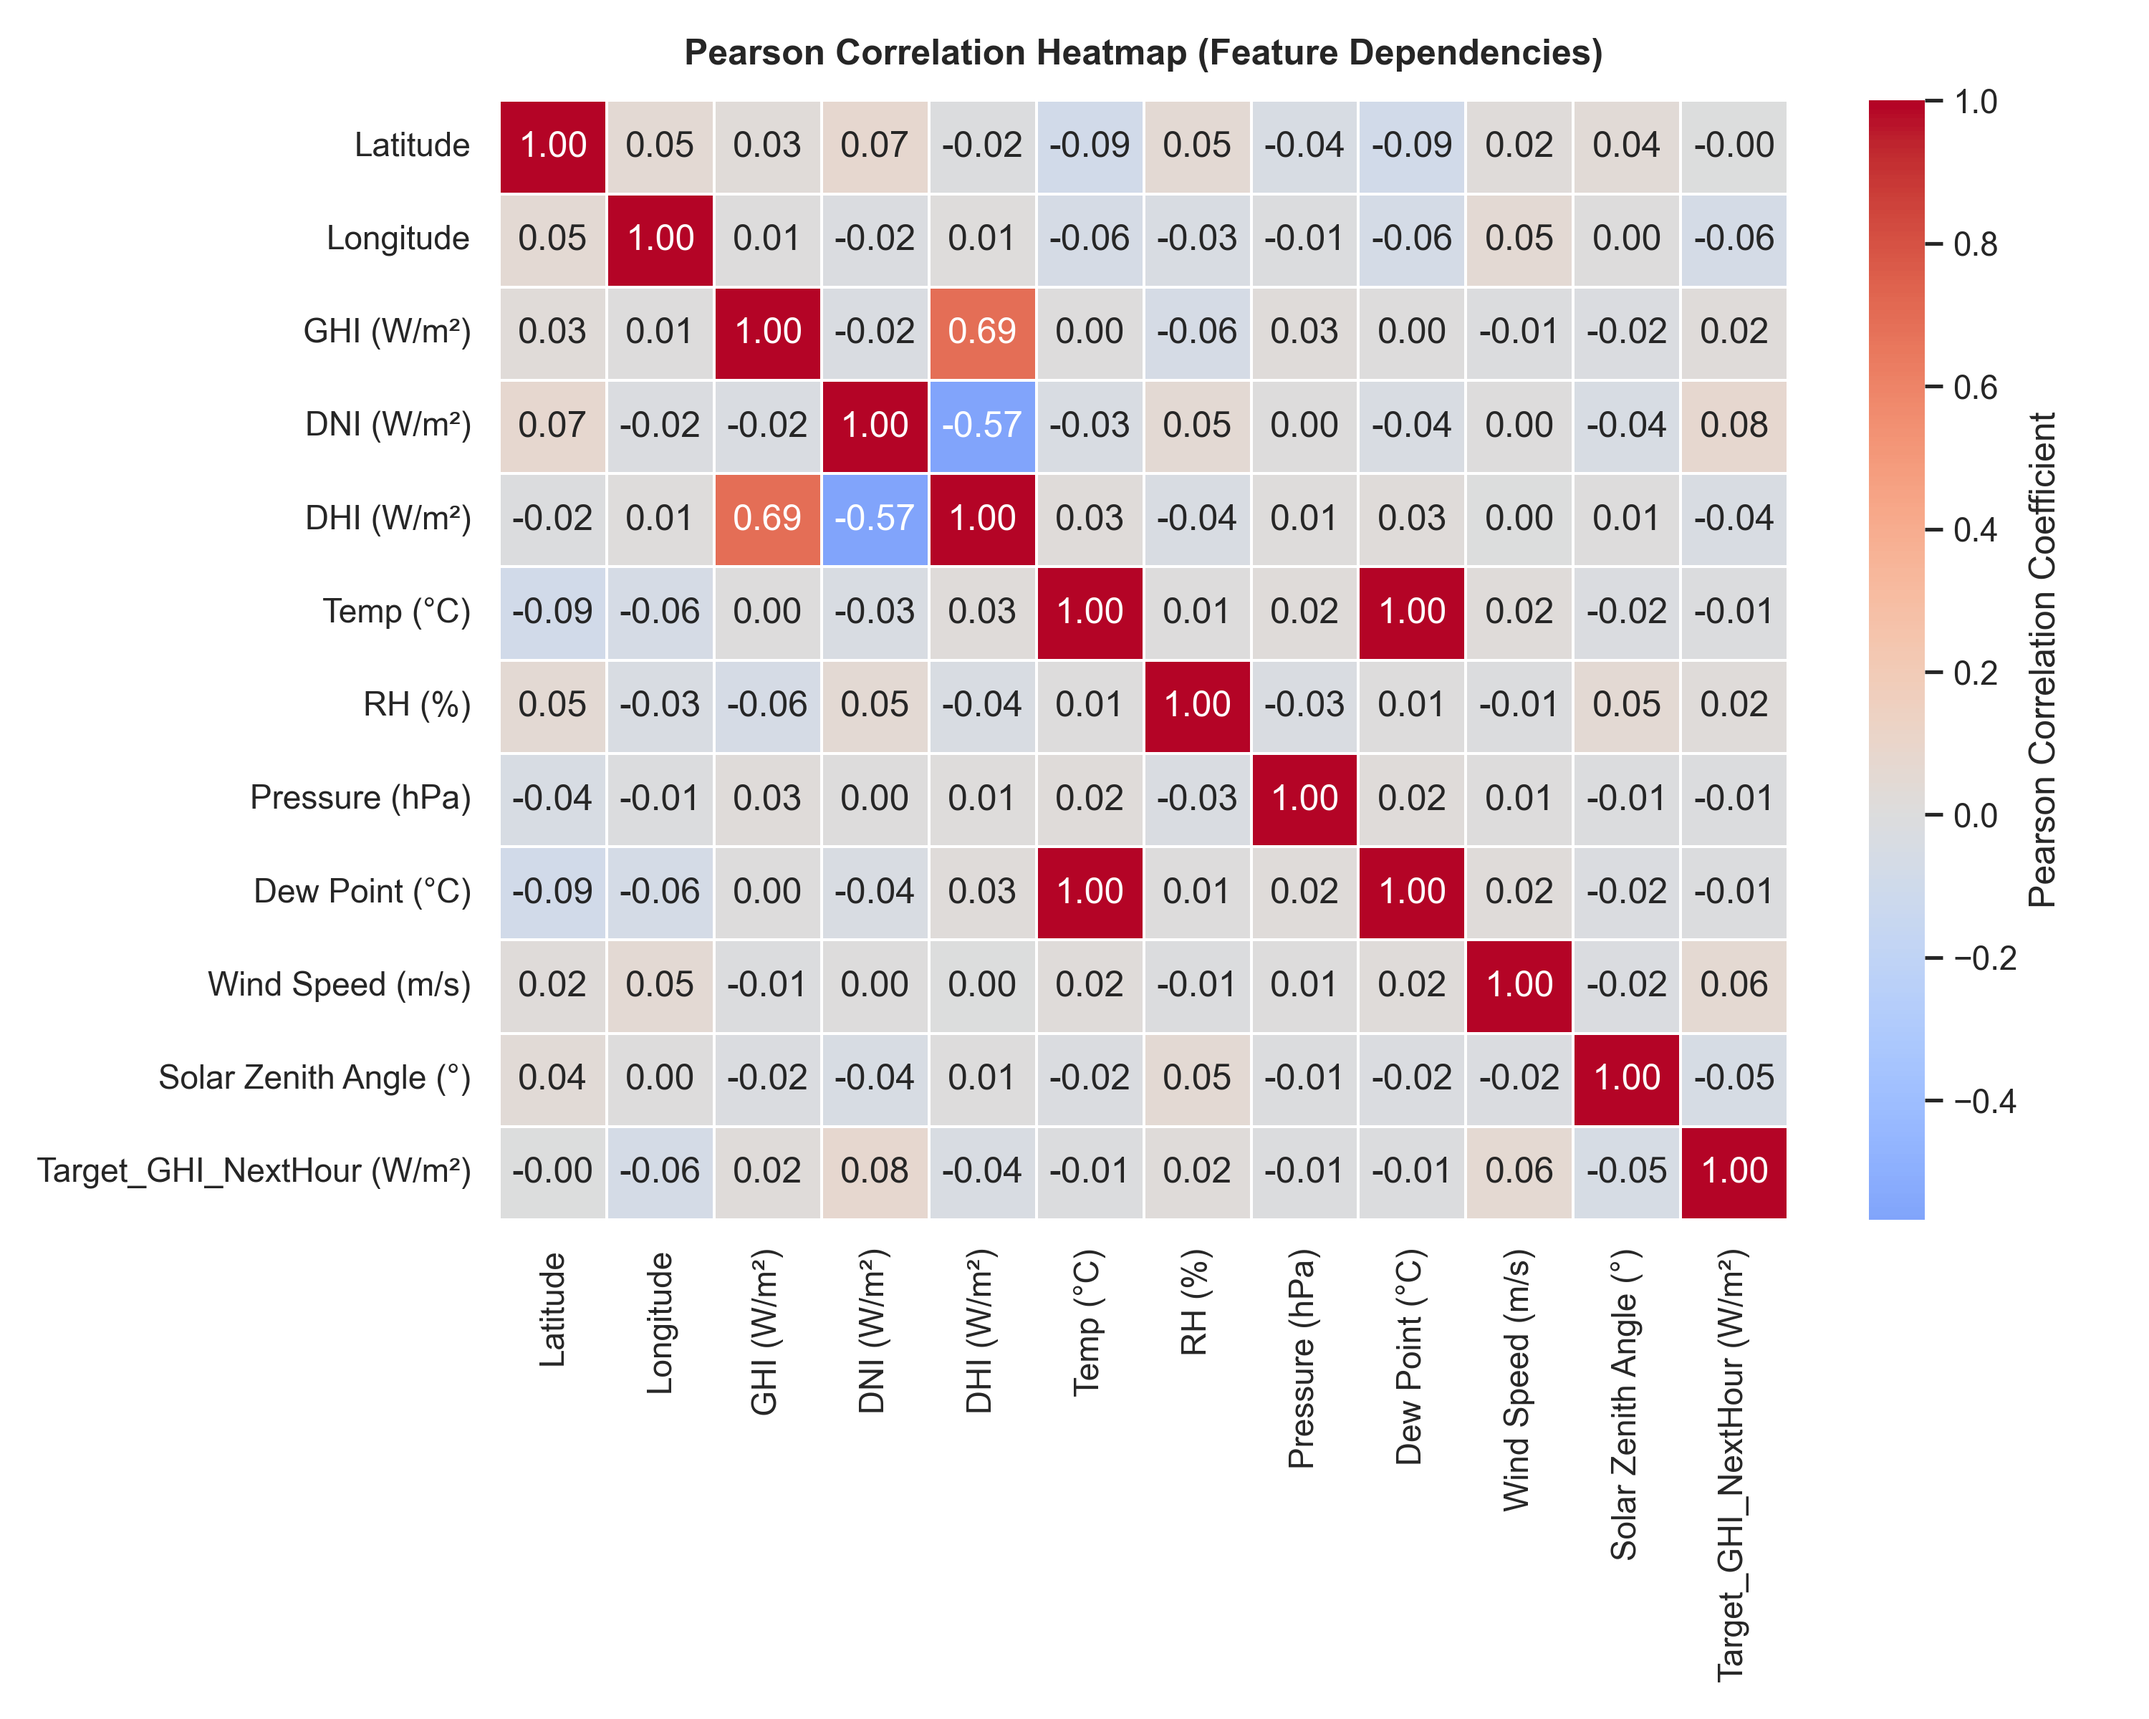
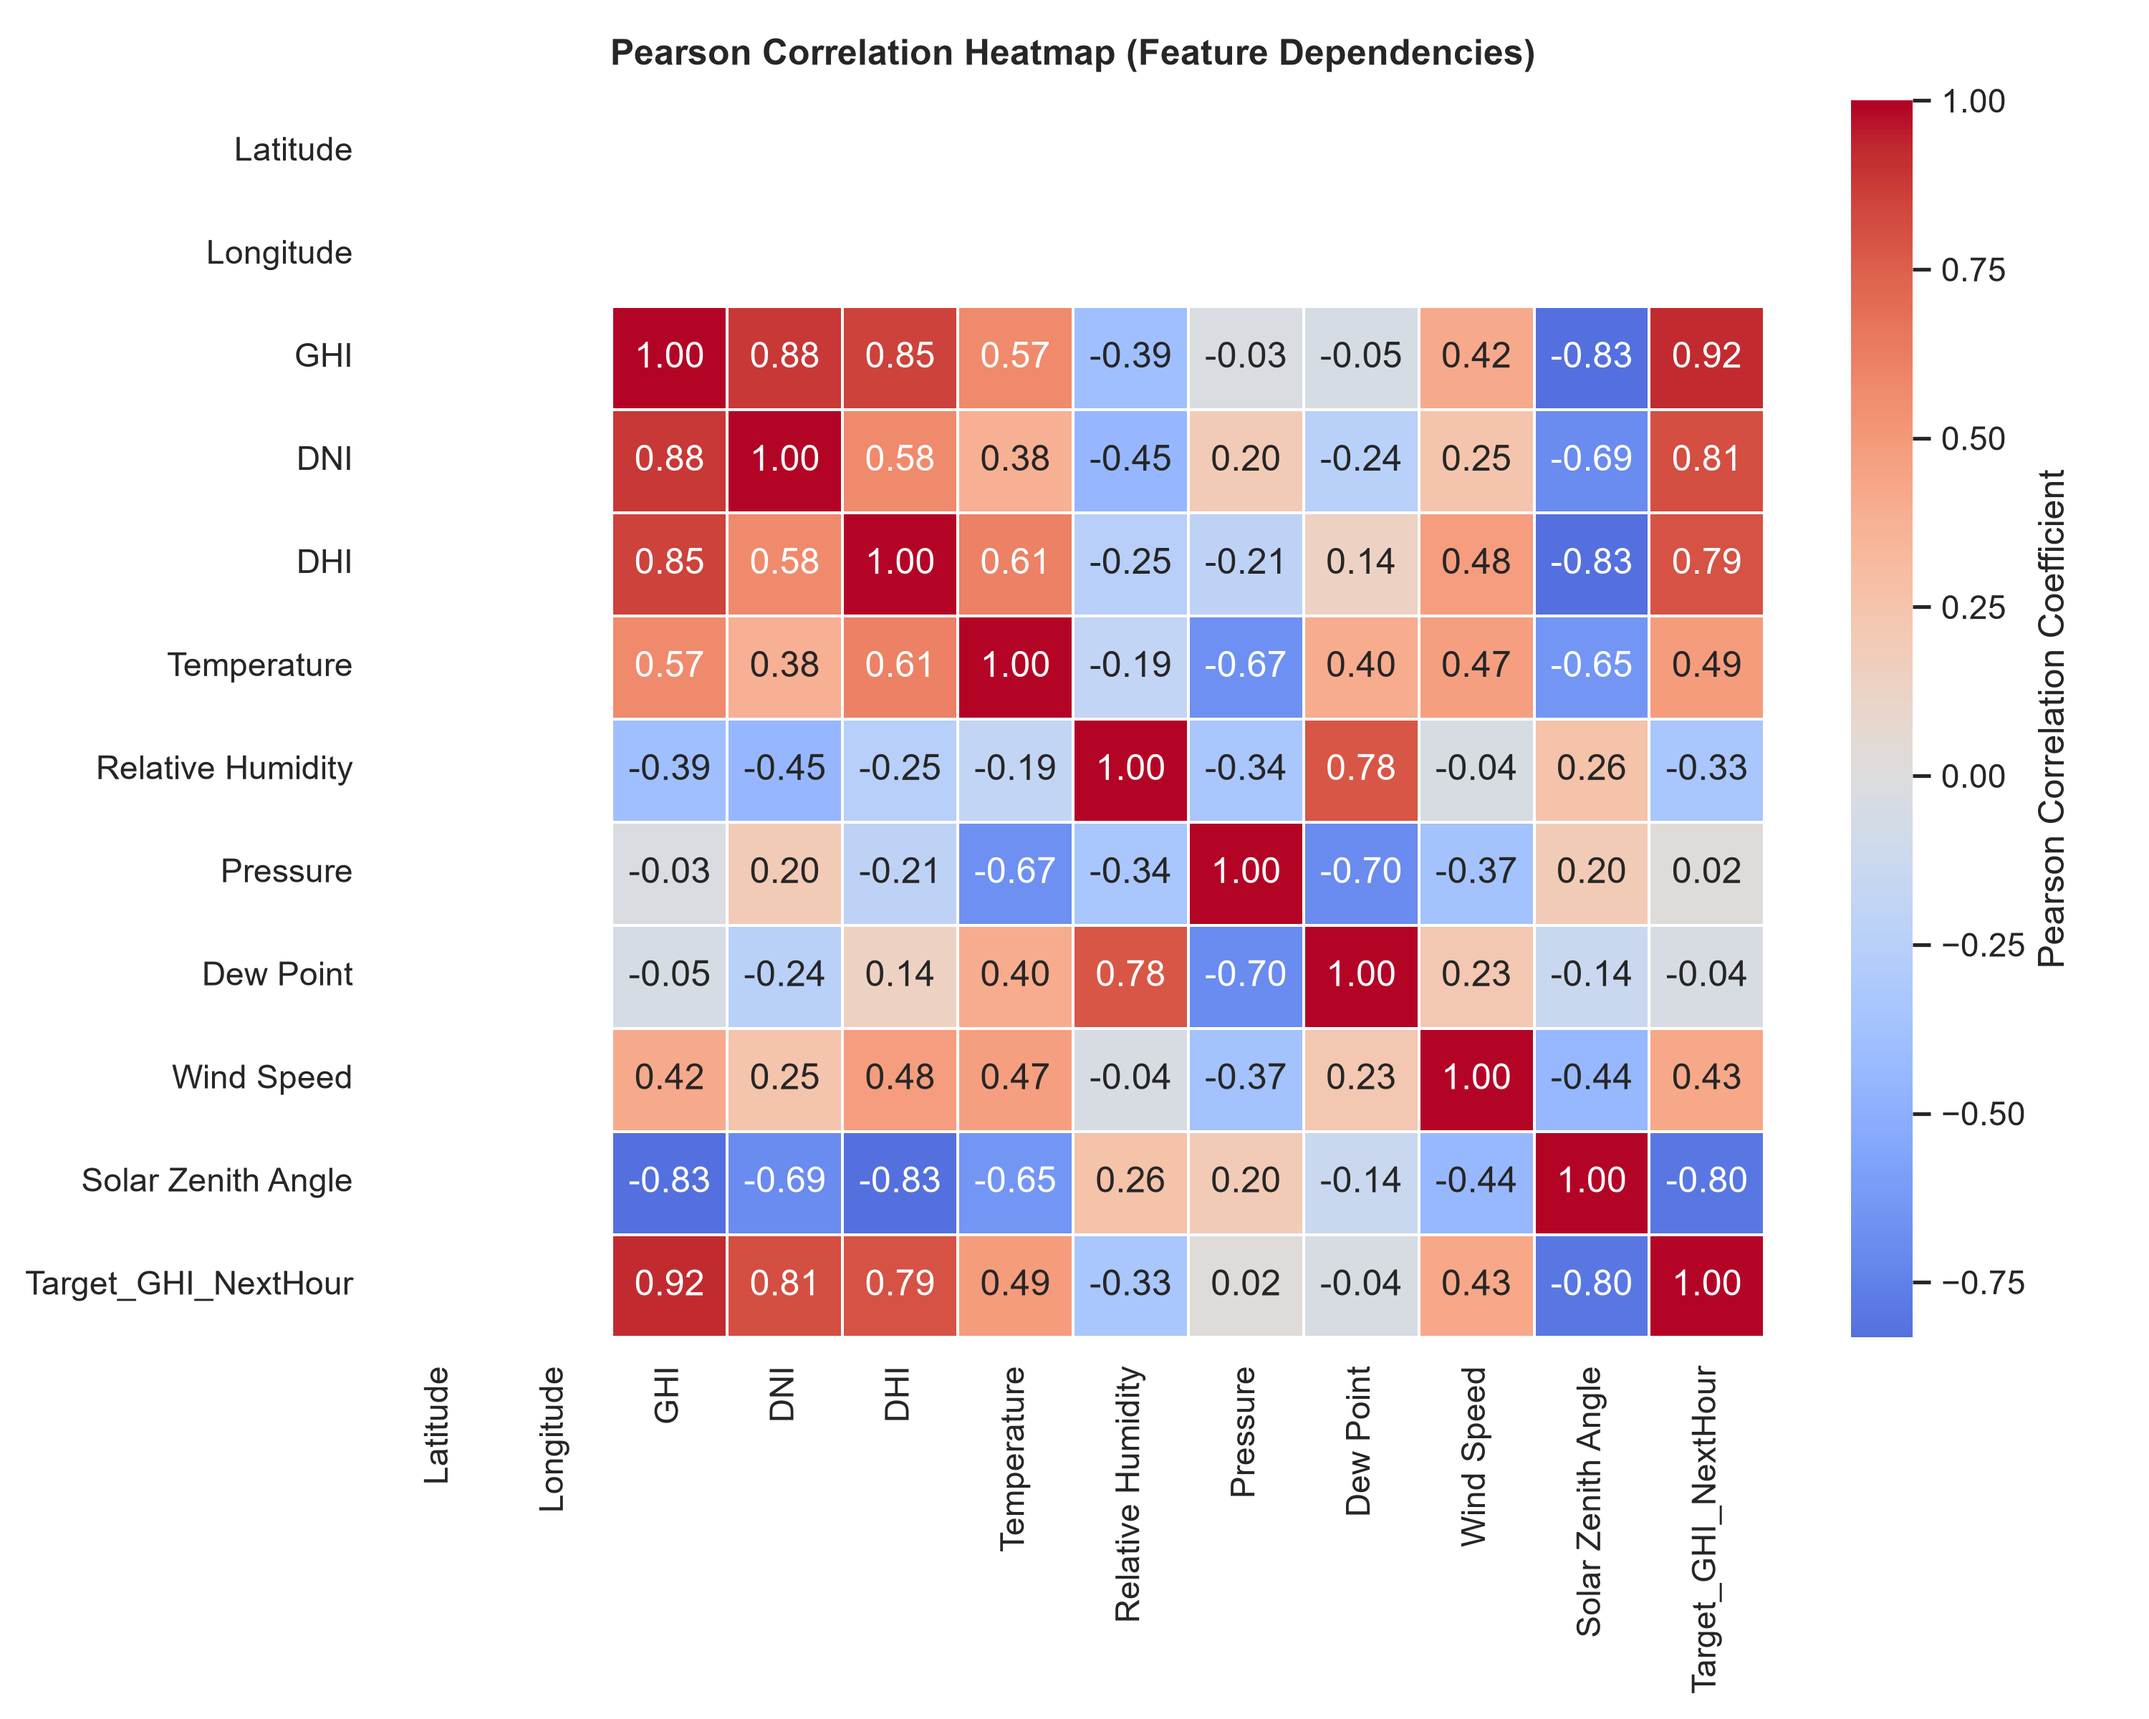
Member 2: Add generated weekly progress report PDF and update visualization scripts

diff --git a/01_eda_and_trends.py b/01_eda_and_trends.py
@@ -3,7 +3,7 @@ import matplotlib.pyplot as plt
 import pandas as pd
 import seaborn as sns
 
-# 1. Define paths relative to your project
+# 1. Define paths relative to project root
 BASE_DIR = os.path.dirname(os.path.abspath(__file__))
 DATA_PATH = os.path.join(
     BASE_DIR, "data", "processed", "nsrdb_cleaned_base.csv"
@@ -12,51 +12,91 @@ REPORTS_DIR = os.path.join(BASE_DIR, "reports")
 
 os.makedirs(REPORTS_DIR, exist_ok=True)
 
-# 2. Load the preprocessed dataset
+# 2. Load preprocessed dataset
 print("Loading cleaned dataset from:", DATA_PATH)
 df = pd.read_csv(DATA_PATH)
-df["Timestamp"] = pd.to_datetime(df["Timestamp"])
-df["Hour"] = df["Timestamp"].dt.hour
+
+# Convert Timestamp and extract Hour
+if "Timestamp" in df.columns:
+    df["Timestamp"] = pd.to_datetime(df["Timestamp"])
+    df["Hour"] = df["Timestamp"].dt.hour
+
+# Helper function to detect matching column names flexibly
+def get_col(possible_names, df_cols):
+    for name in possible_names:
+        if name in df_cols:
+            return name
+    return None
+
+ghi_col = get_col(["GHI (W/m²)", "GHI", "Target_GHI_NextHour (W/m²)", "Target_GHI"], df.columns)
+temp_col = get_col(["Temp (°C)", "Temperature", "Temp"], df.columns)
+rh_col = get_col(["RH (%)", "Relative Humidity", "RH"], df.columns)
+cloud_col = get_col(["Cloud Type", "Cloud_Type", "Cloud Coverage"], df.columns)
+zenith_col = get_col(["Solar Zenith Angle (°)", "Solar Zenith Angle", "Zenith"], df.columns)
+
+print(f"\n[+] Detected Active Columns:")
+print(f"    - GHI Column   : {ghi_col}")
+print(f"    - Temp Column  : {temp_col}")
+print(f"    - RH Column    : {rh_col}")
+print(f"    - Cloud Column : {cloud_col}")
 
 # 3. Create Multi-Panel Visualization
 sns.set_theme(style="whitegrid")  
 plt.figure(figsize=(14, 10))
 
 # Subplot 1: Hourly Solar Irradiance (Diurnal Pattern)
-plt.subplot(2, 2, 1)
-sns.boxplot(data=df, x="Hour", y="GHI (W/m²)", palette="YlOrRd")
-plt.title("Diurnal GHI Distribution by Hour")
-plt.xlabel("Hour of Day")
-plt.ylabel("GHI (W/m²)")
+if ghi_col and "Hour" in df.columns:
+    plt.subplot(2, 2, 1)
+    sns.boxplot(
+        data=df,
+        x="Hour",
+        y=ghi_col,
+        hue="Hour",
+        palette="YlOrRd",
+        legend=False
+    )
+    plt.title(f"Diurnal {ghi_col} Distribution by Hour", fontsize=11, fontweight="bold")
+    plt.xlabel("Hour of Day")
+    plt.ylabel(ghi_col)
 
 # Subplot 2: Temperature vs. Relative Humidity by Cloud Type
-plt.subplot(2, 2, 2)
-sns.scatterplot(
-    data=df,
-    x="Temp (°C)",
-    y="RH (%)",
-    hue="Cloud Type",
-    palette="tab10",
-    alpha=0.7,
-)
-plt.title("Temperature vs Relative Humidity by Cloud Type")
+if temp_col and rh_col:
+    plt.subplot(2, 2, 2)
+    sns.scatterplot(
+        data=df,
+        x=temp_col,
+        y=rh_col,
+        hue=cloud_col if cloud_col else None,
+        palette="tab10" if cloud_col else None,
+        alpha=0.7,
+    )
+    plt.title("Temperature vs Relative Humidity", fontsize=11, fontweight="bold")
 
 # Subplot 3: Solar Zenith Angle Distribution
-plt.subplot(2, 2, 3)
-sns.histplot(df["Solar Zenith Angle (°)"], kde=True, color="teal")
-plt.title("Solar Zenith Angle Distribution")
+if zenith_col:
+    plt.subplot(2, 2, 3)
+    sns.histplot(df[zenith_col], kde=True, color="teal")
+    plt.title(f"{zenith_col} Distribution", fontsize=11, fontweight="bold")
 
 # Subplot 4: Average Solar Output by Cloud Cover
-plt.subplot(2, 2, 4)
-sns.barplot(
-    data=df, x="Cloud Type", y="GHI (W/m²)", estimator="mean", palette="Blues_d"
-)
-plt.title("Average GHI Across Cloud Coverage Types")
+if cloud_col and ghi_col:
+    df[cloud_col] = df[cloud_col].astype(str)
+    plt.subplot(2, 2, 4)
+    sns.barplot(
+        data=df,
+        x=cloud_col,
+        y=ghi_col,
+        hue=cloud_col,
+        estimator="mean",
+        palette="Blues_d",
+        legend=False
+    )
+    plt.title(f"Average {ghi_col} Across Cloud Coverage Types", fontsize=11, fontweight="bold")
 
 plt.tight_layout()
 
-# 4. Save figure for project report
+# 4. Save figure
 output_chart_path = os.path.join(REPORTS_DIR, "eda_plots.png")
 plt.savefig(output_chart_path, dpi=300)
-print("EDA chart successfully saved to:", output_chart_path)
+print(f"\nEDA chart successfully saved to: {output_chart_path}")
 plt.show()

diff --git a/analyze_correlations.py b/analyze_correlations.py
@@ -22,6 +22,16 @@ if not os.path.exists(INPUT_PATH):
 print(f"[+] Loading processed dataset from: {INPUT_PATH}")
 df = pd.read_csv(INPUT_PATH)
 
+# Helper function to detect target/GHI column name flexibly
+def get_ghi_column(df_cols):
+    possible_names = ["GHI (W/m²)", "GHI", "Target_GHI_NextHour (W/m²)", "Target_GHI"]
+    for name in possible_names:
+        if name in df_cols:
+            return name
+    return None
+
+target_ghi_col = get_ghi_column(df.columns)
+
 # Select numerical meteorological columns for correlation analysis
 numeric_cols = df.select_dtypes(include=["float64", "int64"]).columns
 numeric_df = df[numeric_cols]
@@ -50,17 +60,19 @@ plt.savefig(heatmap_path, dpi=300)
 plt.close()
 print(f"[+] Saved Pearson correlation heatmap to: {heatmap_path}")
 
-# 5. Display Strongest Predictors for GHI (Solar Output)
-if "GHI (W/m²)" in pearson_corr.columns:
-    ghi_corr = pearson_corr["GHI (W/m²)"].drop("GHI (W/m²)").sort_values(ascending=False)
-    print("\n[+] Feature Correlation relative to Global Horizontal Irradiance (GHI):")
+# 5. Display Strongest Predictors for GHI / Target Variable
+if target_ghi_col and target_ghi_col in pearson_corr.columns:
+    ghi_corr = pearson_corr[target_ghi_col].drop(target_ghi_col).sort_values(ascending=False)
+    print(f"\n[+] Feature Correlation relative to '{target_ghi_col}':")
     for feature, val in ghi_corr.items():
-        print(f"    - {feature:<25}: {val:.4f}")
+        print(f"    - {feature:<30}: {val:.4f}")
+else:
+    print("\n[!] Primary GHI column not found in correlation matrix.")
 
 # 6. Check for Multicollinearity between Predictors
 print("\n[!] Checking for Multicollinearity (|r| >= 0.85 between features):")
 multicollinear_pairs = []
-features = [c for c in numeric_df.columns if c != "GHI (W/m²)"]
+features = [c for c in numeric_df.columns if c != target_ghi_col]
 
 for i in range(len(features)):
     for j in range(i + 1, len(features)):
